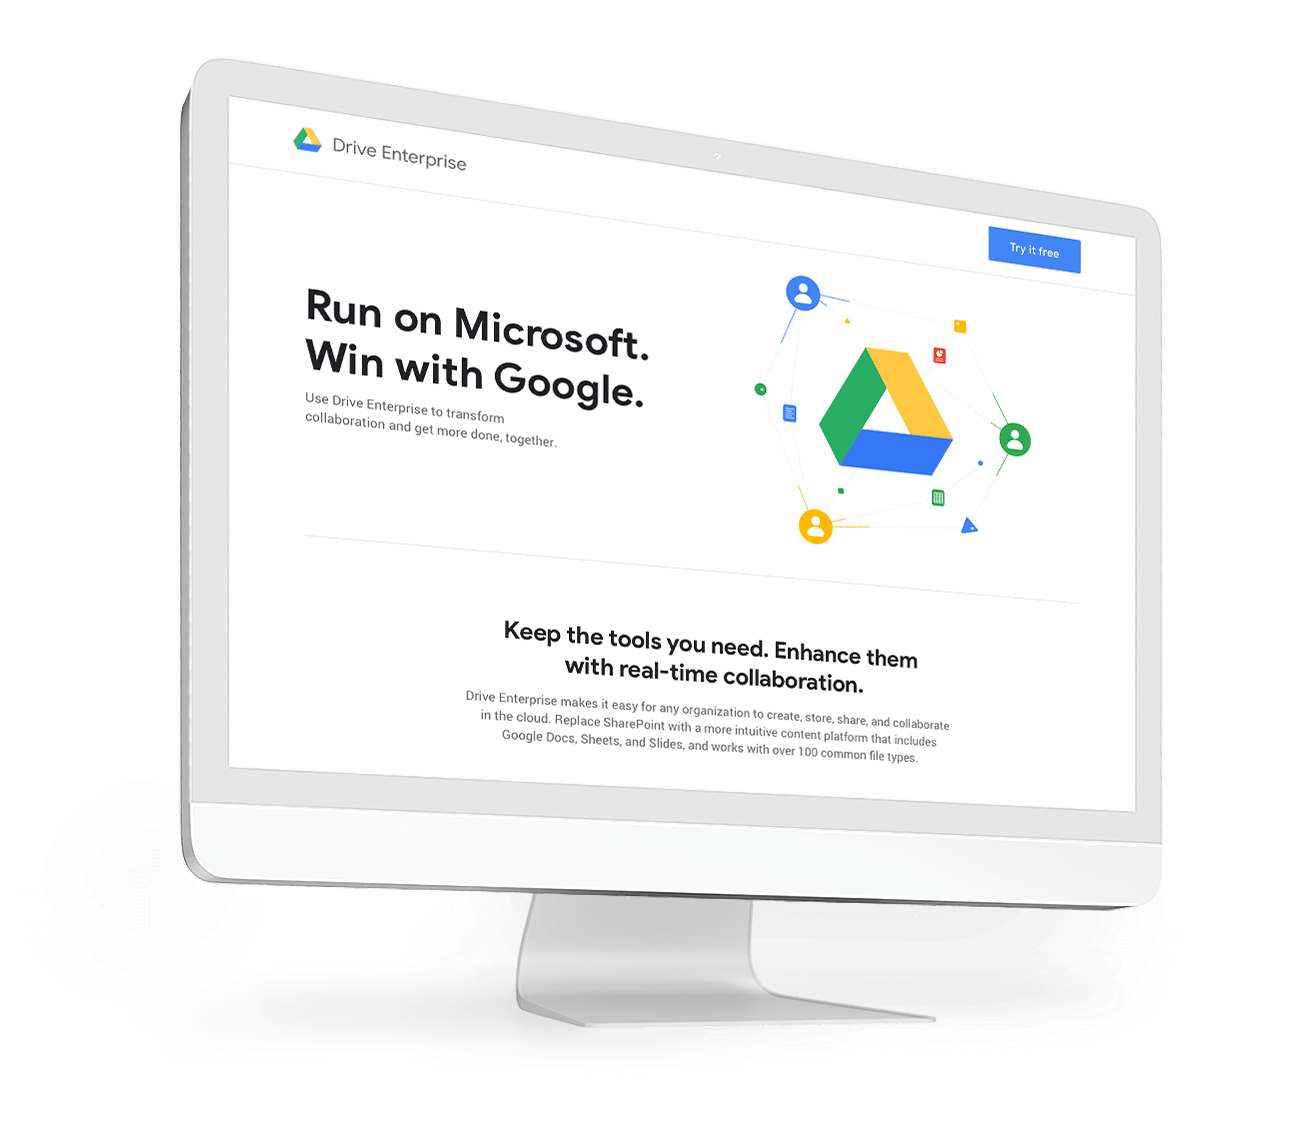
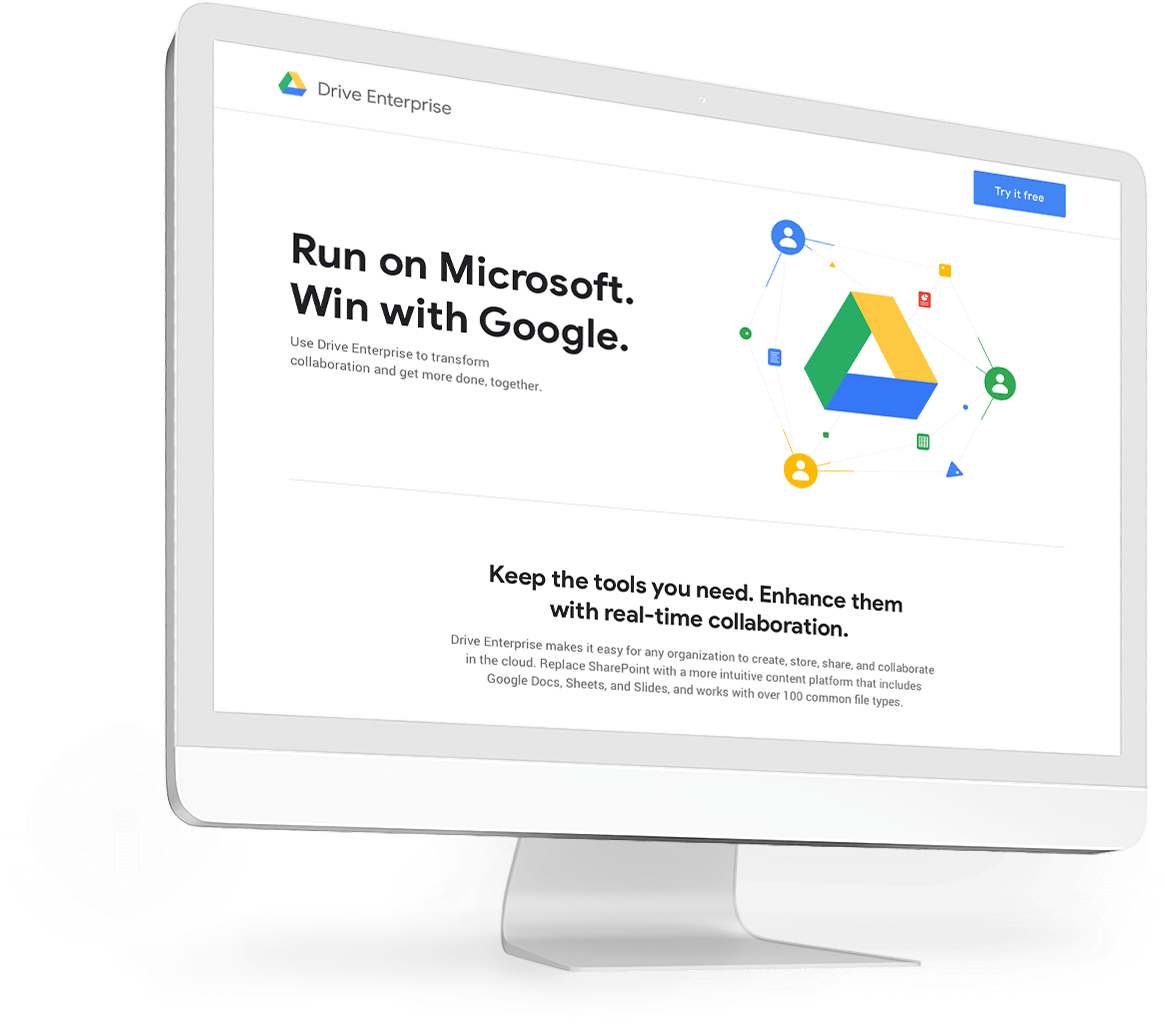
Google Enterprise case study: Drive devices cropped to artwork, larger on mobile; Cloud Identity phone resized; Chrome video larger on desktop
Claude-Session: https://claude.ai/code/session_0115iA8H3msbNi2pxHnyWS2h

diff --git a/google-enterprise/index.html b/google-enterprise/index.html
@@ -248,8 +248,8 @@ section[aria-label="Google Enterprise Mobility"] .body,section[aria-label="Googl
 .gaw-band .wrap.gaw-row3 img:nth-child(2){height:clamp(178px,34vw,460px)}
 /* Mobile: devices run larger than the row and crop slightly at the left and right edges; they spill past the yellow band, which keeps its original height */
 @media (max-width:600px){
-  .gaw-band .wrap.gaw-row3 img{flex:0 0 auto;max-width:none;height:40vw}
-  .gaw-band .wrap.gaw-row3 img:nth-child(2){height:46vw}
+  .gaw-band .wrap.gaw-row3 img{flex:0 0 auto;max-width:none;height:42vw}
+  .gaw-band .wrap.gaw-row3 img:nth-child(2){height:48vw}
 }
 .gaw-band{padding:clamp(40px,6vw,80px) var(--gutter)}
 /* Reader comment: the screen-recording video plays inside the Chrome assessment-tool mockup's
@@ -258,6 +258,7 @@ section[aria-label="Google Enterprise Mobility"] .body,section[aria-label="Googl
    reads as content actually running on the mocked-up monitor rather than floating over the frame. */
 .gaw-video-spot{position:relative;display:inline-block;width:100%;line-height:0}
 .gaw-video-spot img{display:block;width:100%;height:auto}
+@media (min-width:1100px){.gaw-video-spot{flex:none;width:min(130%,calc(100vw - 2*var(--gutter)))}}
 .gaw-video-spot .gaw-screen-video{position:absolute;left:13.194%;top:9.862%;width:73.565%;height:57.522%;object-fit:cover}
 /* Reader comment: cut this section's height by 25%, mockups stay centered (flex align-items:center already does this). */
 .gaw-drive-sec{padding-top:clamp(16px,2.5vw,33px);padding-bottom:clamp(16px,2.5vw,33px)}
@@ -320,7 +321,7 @@ section[aria-label="Google Enterprise Mobility"] .body,section[aria-label="Googl
   .gaw-fit img{position:absolute;display:block;max-width:none;height:auto;margin:0}
   .gaw-fit-desktop{aspect-ratio:2081/1130}
   .gaw-fit-desktop img{width:120.13%;left:-18.88%;top:-9.29%}
-  .gaw-fit-phone{aspect-ratio:505/1106}
+  .gaw-fit-phone{aspect-ratio:505/1106;width:54%;margin:0 auto}
   .gaw-fit-phone img{width:193.8%;left:-4.70%;top:-4.43%}
 }
 @media (min-width:740px){.gaw-fit{display:contents}.gaw-fit img{width:auto;max-width:100%;height:auto;margin:0 auto}}
@@ -472,7 +473,7 @@ section[aria-label="Google Enterprise Mobility"] .body,section[aria-label="Googl
   </section>
 
   <section class="gaw-band" style="background:#F8F9FA">
-    <div class="wrap" style="max-width:1400px">
+    <div class="wrap" style="overflow:visible">
       <div class="gaw-video-spot" aria-label="Chrome Enterprise interactive assessment tool, recorded in use">
         <img src="img/gaw-chrome-desktop.png" alt="Chrome Enterprise interactive assessment tool mockup: What’s more important to you in a browser?">
         <video class="gaw-screen-video" src="img/gaw-chrome-assessment.mp4" autoplay muted loop playsinline aria-hidden="true"></video>
